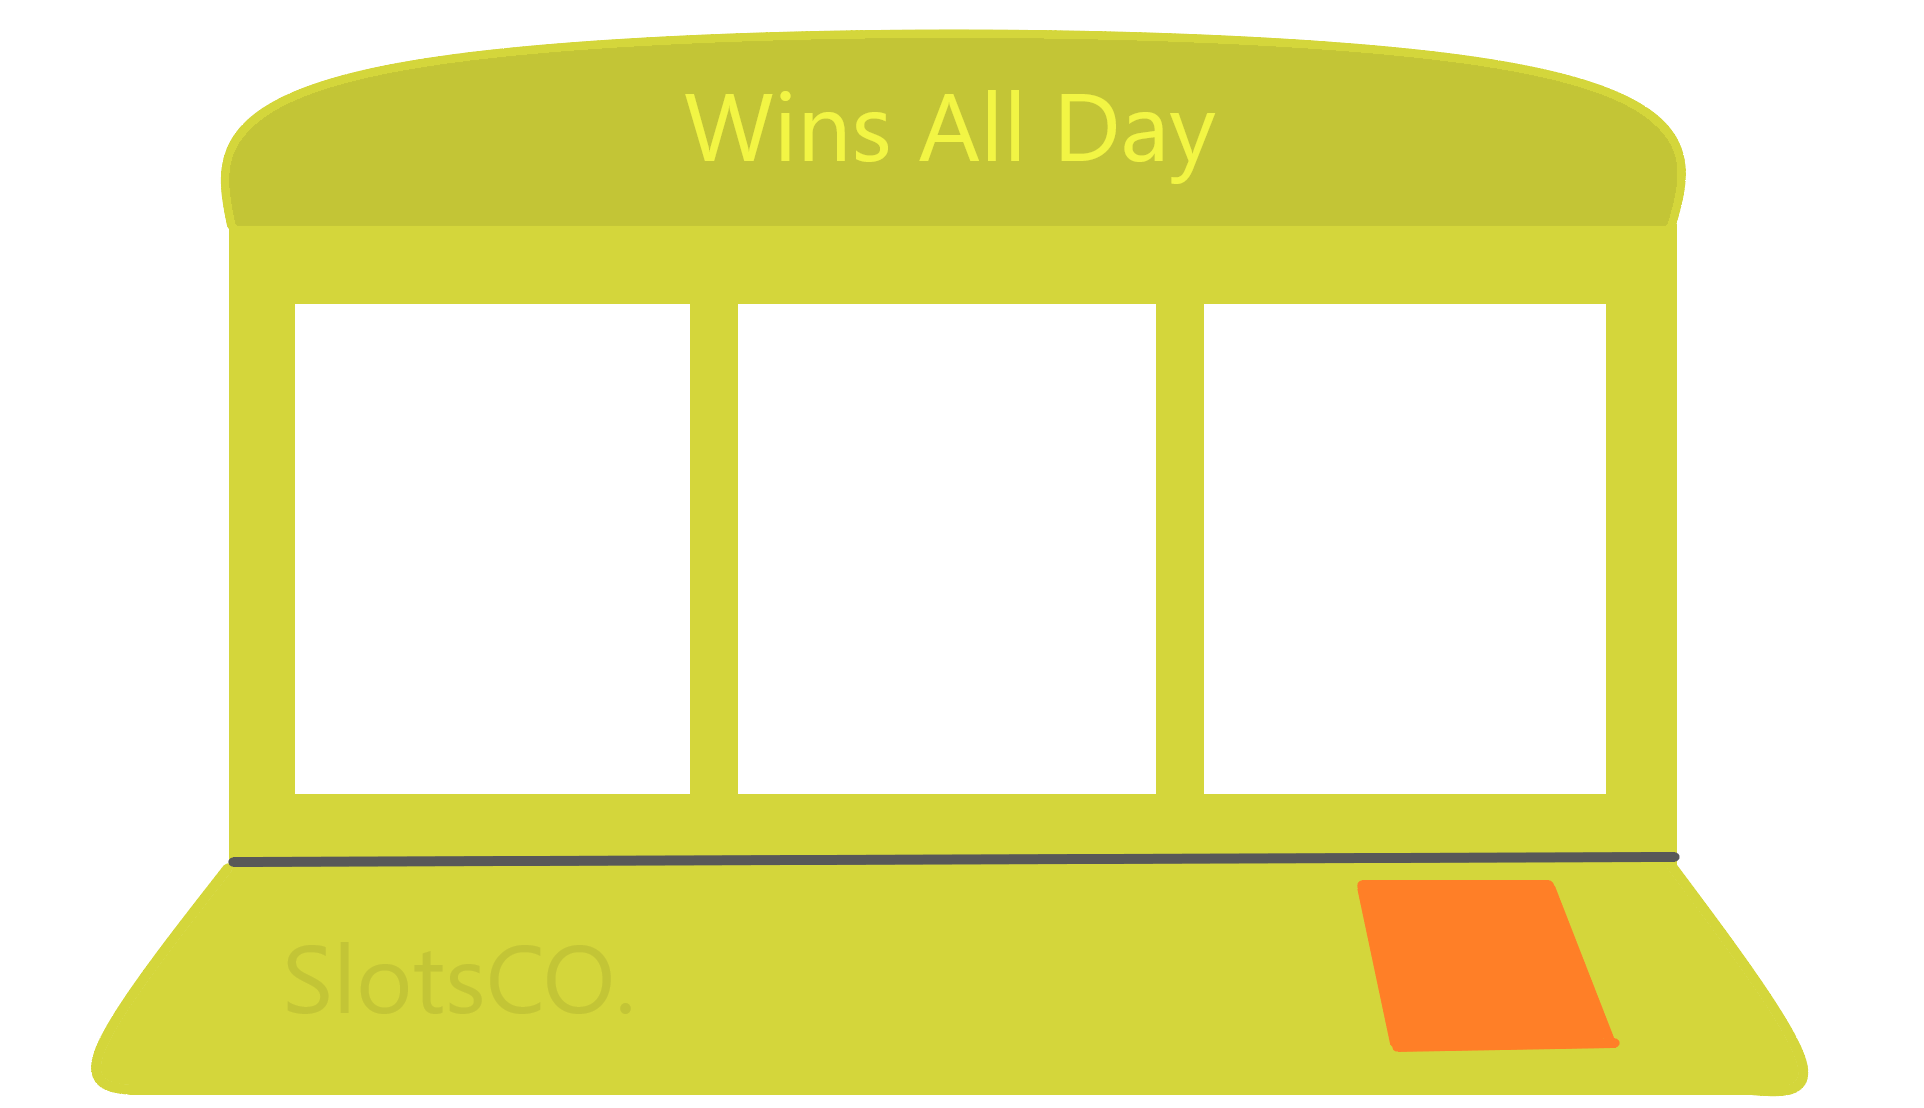
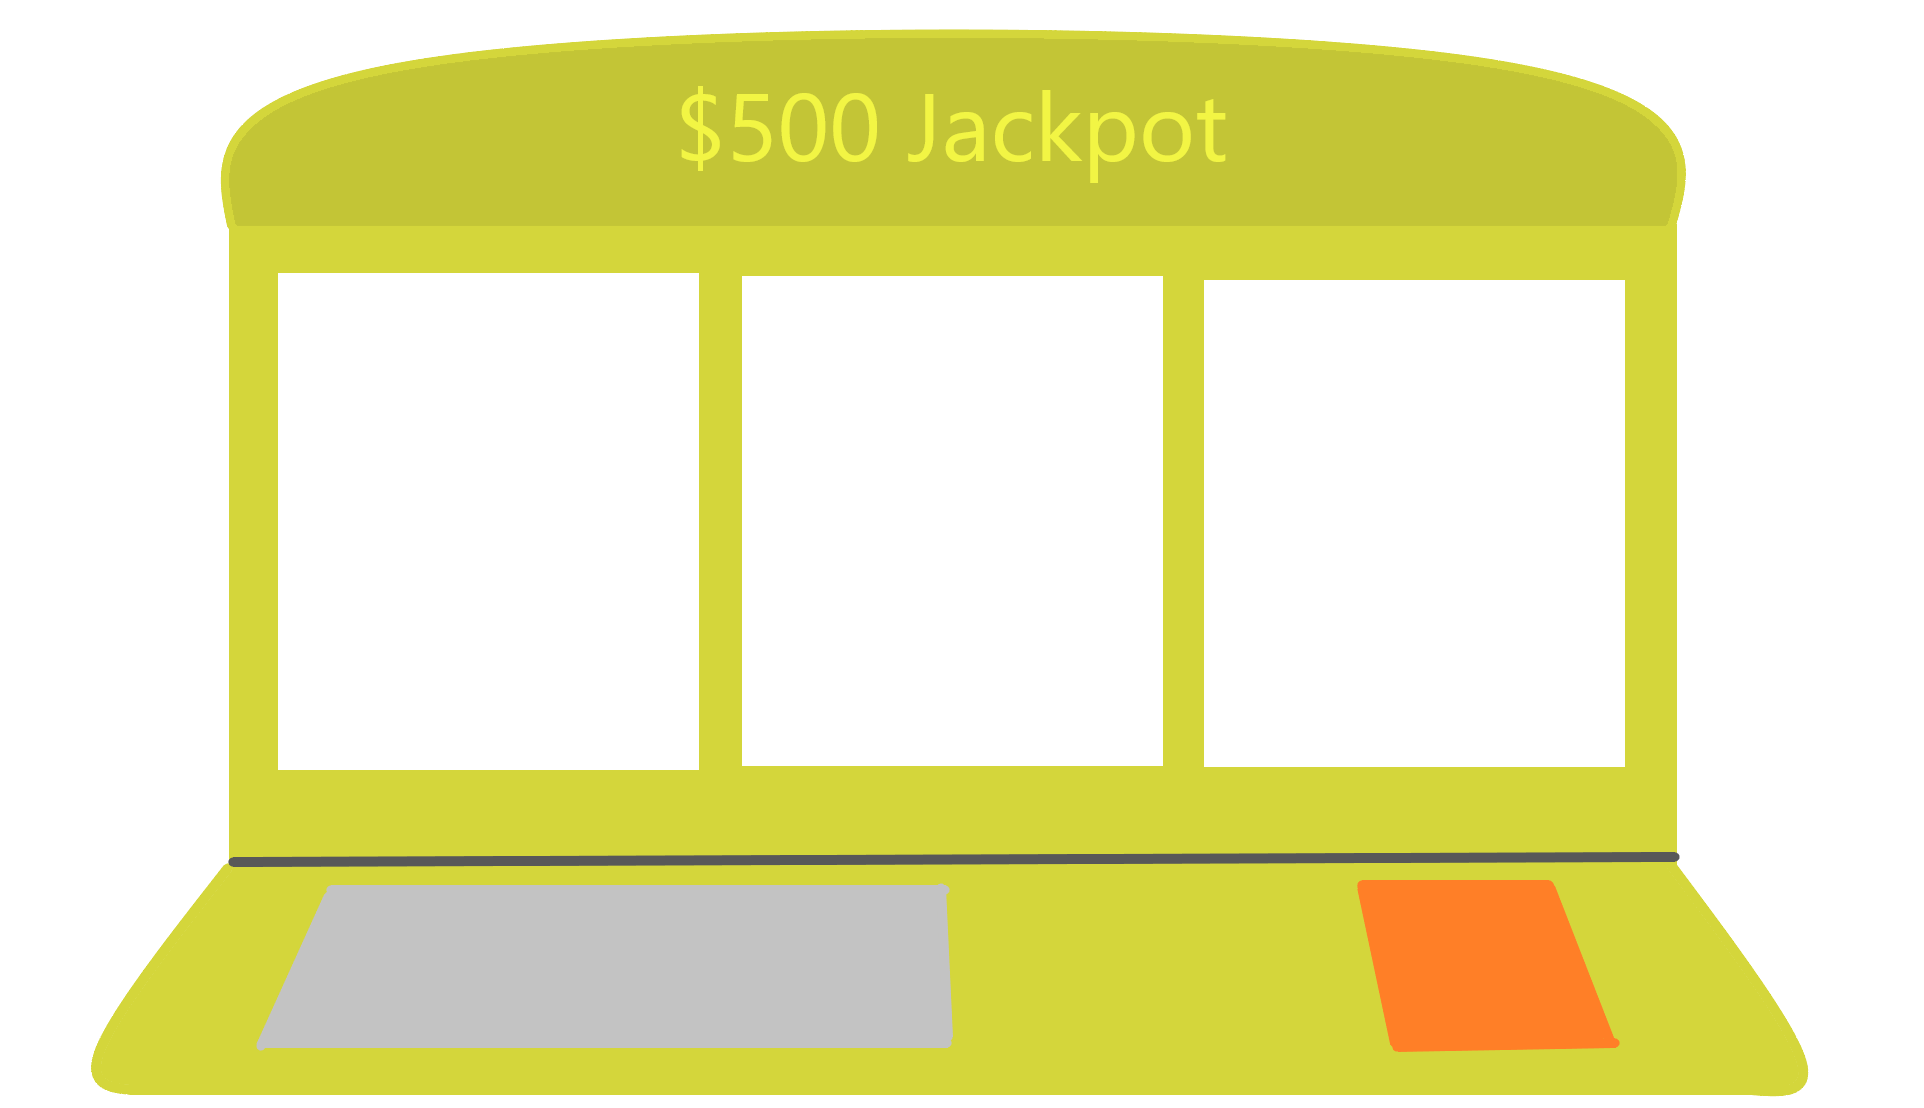
Update Central

Changed region(s): [[0.1247, 0.2455, 0.842, 0.7365], [0.1247, 0.7978, 0.499, 0.9513], [0.343, 0.0614, 0.6549, 0.1534]]

diff --git a/slots_game.py b/slots_game.py
@@ -5,125 +5,131 @@ import pyautogui
 import time
 import start_main
 
-# set the game screen  
+class Slots:
+    def __init__(self, starting_amount):
+        pg.init()
+        pg.display.set_caption("Slots")
+        self.starting_amount = starting_amount
+        self.screen_width, self.screen_height = pyautogui.size()
+        self.baseSize = (550,600)
+        self.window = pg.display.set_mode((self.screen_width, self.screen_height), pg.FULLSCREEN)
+        self.backimg = pg.image.load("slots_assets/back.png")
+        self.ohNo5 = pg.transform.scale(pg.image.load("slots_assets/ohno.png"), self.baseSize)
+        self.maxwell4 = pg.transform.scale(pg.image.load("slots_assets/maxwell.png"), self.baseSize)
+        self.moyai3 = pg.transform.scale(pg.image.load("slots_assets/moyai.png"), self.baseSize)
+        self.braindead2 = pg.transform.scale(pg.image.load("slots_assets/braindead.png"), self.baseSize)
+        self.you1 = pg.transform.scale(pg.image.load("slots_assets/you.png"), self.baseSize)
+        self.machine = pg.transform.scale(pg.image.load("slots_assets/machine.png"), (self.screen_width,self.screen_height))
+        self.slot_items = [self.you1, self.braindead2, self.moyai3, self.maxwell4, self.ohNo5]
+        self.lever = pg.Rect(1800, 1280, 350, 240)
+        self.back = pg.Rect(self.screen_width-100, 0, 100, 100)
+        self.win = False
+        self.buttonActive = True
 
-screen_width, screen_height = pyautogui.size()
-pg.init()
-pg.display.set_caption("Slots")
-baseSize = (550,600)
+    def draw_objects(self):
+        self.window.fill((151, 42, 39))
+        self.window.blit(self.machine, (0,0))
+        self.window.blit(self.backimg, (self.screen_width-100, 0))
+        total_text = pg.font.Font(None, 200)
+        self.window.blit(total_text.render(f"${self.starting_amount}", True, (0, 0, 0)), (500, 1350))
 
-window = None
-backimg = pg.image.load("slots_assets/back.png")
-ohNo5 = pg.transform.scale(pg.image.load("slots_assets/ohno.png"), baseSize)
-maxwell4 = pg.transform.scale(pg.image.load("slots_assets/maxwell.png"), baseSize)
-moyai3 = pg.transform.scale(pg.image.load("slots_assets/moyai.png"), baseSize)
-braindead2 = pg.transform.scale(pg.image.load("slots_assets/braindead.png"), baseSize)
-you1 = pg.transform.scale(pg.image.load("slots_assets/you.png"), baseSize)
-machine = pg.transform.scale(pg.image.load("slots_assets/machine.png"), (screen_width,screen_height))
+    def start_game(self):
+        pg.draw.rect(self.window, (255, 0, 0), self.lever)
+        pg.draw.rect(self.window, (0,0,0), self.back)
+        self.draw_objects()
+        self.window.blit(random.choice(self.slot_items), (379, 450))
+        self.window.blit(random.choice(self.slot_items), (991, 450))
+        self.window.blit(random.choice(self.slot_items), (1606, 450))
+        while True:
+            for event in pg.event.get():
+                if event.type == pg.QUIT:
+                    pg.quit()
+                    sys.exit()
+                if event.type == pg.MOUSEBUTTONUP and self.buttonActive:
+                    pos = pg.mouse.get_pos()
+                    if self.back.collidepoint(pos):
+                        start_main.start(self.starting_amount)
+                    if self.lever.collidepoint(pos):
+                        self.draw_objects()
+                        self.game_logic()
+                if event.type == pg.KEYUP:
+                    if event.key == pg.K_k:
+                        if(self.win == True):
+                            self.win = False
+                        else:
+                            self.win = True
+            pg.display.update()
 
-slot_items = [you1, braindead2, moyai3, maxwell4, ohNo5]
+    def rollin(self):
+        self.randRoll(.1)
+        self.randRoll(.1)
+        self.randRoll(.1)
+        self.randRoll(.2)
+        self.randRoll(.3)
+        self.randRoll(.3)
+        self.randRoll(.4)
+        self.randRoll(.5)
+        self.randRoll(.6)
+        self.randRoll(.7)
 
-lever = pg.Rect(1800, 1280, 350, 240) # , , length height
-back = pg.Rect(screen_width-100, 0, 100, 100)
-window = pg.display.set_mode((screen_width, screen_height), pg.FULLSCREEN)
-global buttonActive
-win = False
-buttonActive = True
-
-def draw_objects():
-    window.fill((151, 42, 39))  # fill with color    
-    window.blit(machine, (0,0))  # fill with color
-    window.blit(backimg, (screen_width-100, 0))
-
-def start_game():
-    global win
-    pg.draw.rect(window, (255, 0, 0), lever)
-    pg.draw.rect(window, (0,0,0), back)
-    draw_objects()
-    while True:
-        for event in pg.event.get():
-            if event.type == pg.QUIT:
-                pg.quit()
-                sys.exit()
-            if event.type == pg.MOUSEBUTTONUP and buttonActive:
-                pos = pg.mouse.get_pos()
-                if back.collidepoint(pos):
-                    start_main.start()
-                if lever.collidepoint(pos):
-                    draw_objects()
-                    game_logic()
-            if event.type == pg.KEYUP:
-                if event.key == pg.K_k:
-                    if(win == True):
-                        win = False
-                    else:
-                        win = True
+    def randRoll(self, timer):
+        self.draw_objects()
+        self.window.blit(random.choice(self.slot_items), (379, 450))
+        self.window.blit(random.choice(self.slot_items), (991, 450))
+        self.window.blit(random.choice(self.slot_items), (1606, 450))
         pg.display.update()
+        time.sleep(timer)
 
-def rollin():
-    randRoll(.1)
-    randRoll(.1)
-    randRoll(.1)
-    randRoll(.2)
-    randRoll(.3)
-    randRoll(.3)
-    randRoll(.4)
-    randRoll(.5)
-    randRoll(.6)
-    randRoll(.7)
-    draw_objects()
-
-def randRoll(timer):
-    draw_objects()
-    window.blit(random.choice(slot_items), (393, 500))
-    window.blit(random.choice(slot_items), (985, 500))
-    window.blit(random.choice(slot_items), (1605, 500))
-    pg.display.update()
-    time.sleep(timer)
-
-def game_logic():
-    buttonActive = False
-    winnum = random.randint(0,100)
-    if(win):
-        winnum = 100
-    rollin()
-    slot1 = random.choice(slot_items)
-    slot2 = random.choice(slot_items)
-    slot3 = random.choice(slot_items)
-    if(winnum < 95):
-        # lose scenario
-        while(True):
-            if(slot1.get_parent == slot2.get_parent and slot2.get_parent == slot3.get_parent):
-                slot1 = random.choice(slot_items)
-                slot2 = random.choice(slot_items)
-                slot3 = random.choice(slot_items)
-            else:
-                break
-    elif (winnum >= 95 and winnum < 97):
-        slot1 = slot_items[0]
-        slot2 = slot_items[0]
-        slot3 = slot_items[0]
-    elif (winnum == 97):
-        slot1 = slot_items[1]
-        slot2 = slot_items[1]
-        slot3 = slot_items[1]
-    elif (winnum == 98):
-        slot1 = slot_items[2]
-        slot2 = slot_items[2]
-        slot3 = slot_items[2]
-    elif (winnum == 99):
-        slot1 = slot_items[3]
-        slot2 = slot_items[3]
-        slot3 = slot_items[3]
-    elif (winnum == 100):
-        slot1 = slot_items[4]
-        slot2 = slot_items[4]
-        slot3 = slot_items[4]
-    window.blit(slot1, (393, 500))
-    window.blit(slot2, (985, 500))
-    window.blit(slot3, (1605, 500))
-    buttonActive = True
-
+    def game_logic(self):
+        if(self.starting_amount >= 25):
+            self.buttonActive = False
+            winnum = random.randint(0,100)
+            self.starting_amount -= 25
+            if(self.win):
+                winnum = 100
+            self.rollin()
+            slot1 = random.choice(self.slot_items)
+            slot2 = random.choice(self.slot_items)
+            slot3 = random.choice(self.slot_items)
+            if(winnum < 95):
+                # lose scenario
+                while(True):
+                    if(slot1.get_parent == slot2.get_parent and slot2.get_parent == slot3.get_parent):
+                        slot1 = random.choice(self.slot_items)
+                        slot2 = random.choice(self.slot_items)
+                        slot3 = random.choice(self.slot_items)
+                    else:
+                        break
+            elif (winnum >= 95 and winnum < 97):
+                self.starting_amount += 50
+                slot1 = self.slot_items[0]
+                slot2 = self.slot_items[0]
+                slot3 = self.slot_items[0]
+            elif (winnum == 97):
+                self.starting_amount += 75
+                slot1 = self.slot_items[1]
+                slot2 = self.slot_items[1]
+                slot3 = self.slot_items[1]
+            elif (winnum == 98):
+                self.starting_amount += 100
+                slot1 = self.slot_items[2]
+                slot2 = self.slot_items[2]
+                slot3 = self.slot_items[2]
+            elif (winnum == 99):
+                self.starting_amount += 200
+                slot1 = self.slot_items[3]
+                slot2 = self.slot_items[3]
+                slot3 = self.slot_items[3]
+            elif (winnum == 100):
+                self.starting_amount += 500
+                slot1 = self.slot_items[4]
+                slot2 = self.slot_items[4]
+                slot3 = self.slot_items[4]
+            self.draw_objects()
+            self.window.blit(slot1, (379, 450))
+            self.window.blit(slot2, (991, 450))
+            self.window.blit(slot3, (1606, 450))
+            self.buttonActive = True
 
 if __name__ == "__main__":
-    start_game()
+    Slots().start_game()

diff --git a/player_money.py b/player_money.py
@@ -1,0 +1,44 @@
+import pygame as pg
+import pyautogui
+import start_main
+
+class PlayerMuns:
+    def __init__(self, starting_amount):
+        pg.init()
+        pg.display.set_caption("Money")
+        self.starting_amount = starting_amount
+        self.backimg = pg.image.load("slots_assets/back.png")
+        self.screen_width, self.screen_height = pyautogui.size()
+        self.back = pg.Rect(self.screen_width-100, 0, 100, 100)
+        self.image_back = pg.transform.scale(pg.image.load("menu_assets/casino.png"), (self.screen_width, self.screen_height))
+        self.give = pg.Rect(900, 800, 800, 100)
+        self.get = pg.Rect(900, 500, 800, 100)
+        self.window = pg.display.set_mode((self.screen_width, self.screen_height), pg.FULLSCREEN)
+
+    def draw_objects(self):
+        self.window.blit(self.image_back, (0, 0))
+        self.window.blit(self.backimg, (self.screen_width-100, 0))
+        total_text = pg.font.Font(None, 200)
+        button_text = pg.font.Font(None, 100)
+        self.window.blit(total_text.render(f"${self.starting_amount}", True, (0, 0, 0)), ((self.screen_width/2)-250, 200))
+        self.window.blit(button_text.render(f"Deposit $100", True, (0, 0, 0)), (1050, 500))
+        self.window.blit(button_text.render(f"Withdraw up to $100", True, (0, 0, 0)), (930,800))
+
+    def start_menu(self):
+        while True:
+            self.draw_objects()
+            for event in pg.event.get():
+                if event.type == pg.MOUSEBUTTONUP:
+                    pos = pg.mouse.get_pos()
+                    if self.back.collidepoint(pos):
+                        start_main.start(self.starting_amount)
+                    if self.give.collidepoint(pos):
+                        self.starting_amount -= 100
+                        if self.starting_amount < 0:
+                            self.starting_amount = 0
+                    if self.get.collidepoint(pos):
+                        self.starting_amount += 100
+            pg.display.update()
+
+if __name__ == "__main__":
+    PlayerMuns().start_game()

diff --git a/main.py b/main.py
@@ -1,7 +1,9 @@
-import pygame, pyautogui, pygame_menu, slots_game, blackjack_game
+import pygame, pyautogui, pygame_menu, sys
 
 import craps_game
+from player_money import PlayerMuns
 from roulette_game import Roulette
+from slots_game import Slots
 
 pygame.init()
 screen_width, screen_height = pyautogui.size()
@@ -14,17 +16,23 @@ def run_roulette():
     roulette = Roulette(money)
     roulette.start_game()
 
+def run_slots():
+    slots = Slots(money)
+    slots.start_game()
+
 def craps():
     pass
 
 
 def playerAccount():
-    pass
+    muns = PlayerMuns(money)
+    muns.start_menu()
 
 def quit_game():
     with open("money.txt", "w") as file:
         file.write(str(money))
-        pygame.events.EXIT
+        pygame.quit()
+        sys.exit()
 
 
 myimage = pygame_menu.baseimage.BaseImage(
@@ -40,10 +48,8 @@ mainTheme = pygame_menu.Theme(
 
 main_menu = pygame_menu.Menu('Welcome to a casino', screen_width, screen_height, theme=mainTheme)
 
-name = main_menu.add.text_input('Name :', default="LeBron James").get_value()  # can store this value somewhere
 main_menu.add.button('Roulette Table', run_roulette)
-main_menu.add.button('Black Jack', blackjack_game.start_game)
-main_menu.add.button('Slots', slots_game.start_game)
+main_menu.add.button('Slots', run_slots)
 main_menu.add.button('Shits', craps_game.start_game)
 main_menu.add.button('See Balance', playerAccount)
 main_menu.add.button('Quit', quit_game)

diff --git a/start_main.py b/start_main.py
@@ -4,6 +4,7 @@ def start(user_money = 10000):
     main.start_main(user_money)
 
 if __name__ == "__main__":
+    money = 0
     with open("money.txt", "r") as file:
         money = int(file.readline())
     start(money)
